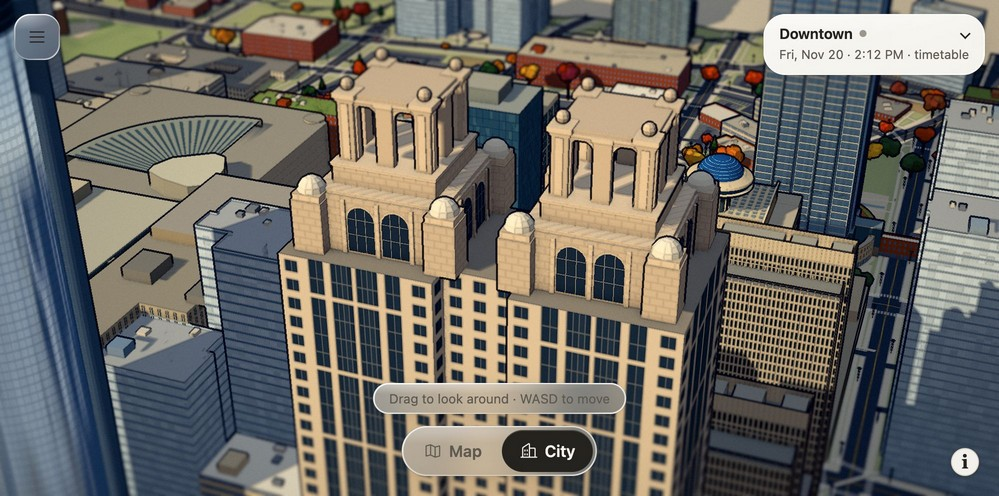
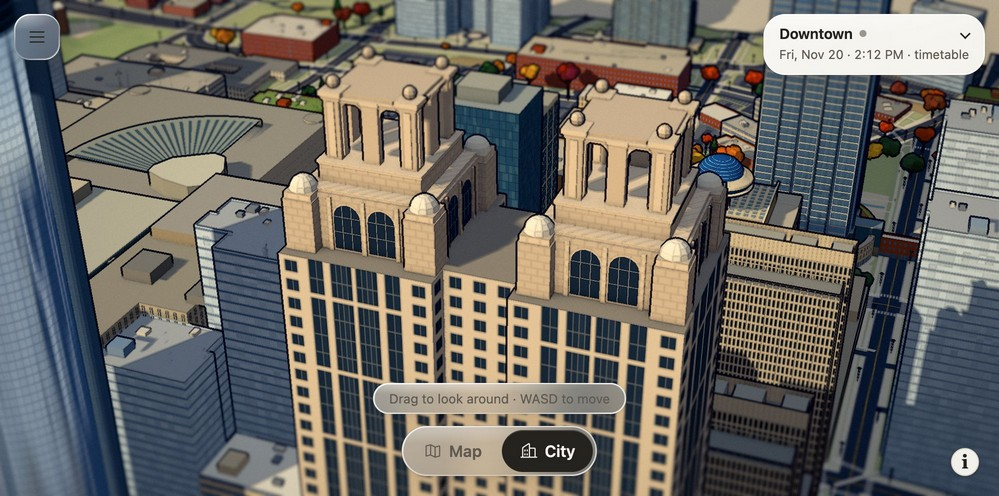
Seat both 191 Peachtree crowns inside the notched shaft roof

Changed region(s): [[0.2793, 0.0907, 0.7447, 0.6653], [0.9309, 0.5444, 0.993, 0.6653]]

diff --git a/web/src/city/peachtree-191.test.ts b/web/src/city/peachtree-191.test.ts
@@ -17,10 +17,10 @@ it('places two open lanterns on the mapped roof parts and leaves the western ent
   site.group.updateMatrixWorld(true);
   const roof = (x: number, z: number) =>
     new Raycaster(new Vector3(x,300,z),new Vector3(0,-1,0)).intersectObject(site.group,true)[0]?.point.y;
-  for (const [x,z] of [[429.5,-567.7],[469,-567.2]]) {
+  for (const [x,z] of [[426.8,-567.7],[471.5,-567.2]]) {
     expect(roof(x,z)).toBeCloseTo(ground+232,2);
     expect(roof(x+7.3,z+7.3)).toBeCloseTo(ground+234.7,2);
-    expect(roof(x+12.8,z+12.8)).toBeCloseTo(ground+217.28,2);
+    expect(roof(x+11.75,z+12.8)).toBeCloseTo(ground+217.28,2);
   }
   expect(roof(449,-567.5)).toBeCloseTo(ground+203);
   expect(roof(400,-567)).toBeCloseTo(ground+17);
@@ -28,6 +28,20 @@ it('places two open lanterns on the mapped roof parts and leaves the western ent
   const through = new Raycaster(new Vector3(414,ground+224,-563.8),new Vector3(1,0,0),0,29);
   expect(through.intersectObject(site.group,true)).toHaveLength(0);
   expect(site.group.children.filter(child => child instanceof Mesh)).toHaveLength(3);
+});
+
+it('supports both complete crown footprints at the 203 m shaft roof', () => {
+  const site = createPeachtree191([tower], () => 0)!;
+  const [shaft, , crowns] = site.group.children as Mesh[];
+  const vertices = crowns.geometry.getAttribute('position');
+  const down = new Raycaster(new Vector3(), new Vector3(0,-1,0), 0, 1);
+  // Every projected vertex must land on the shaft roof, including the four
+  // recess-facing corners. A missed roof would fall through to the podium.
+  expect(vertices.count).toBeGreaterThan(0);
+  for (let i = 0; i < vertices.count; i++) {
+    down.ray.origin.set(vertices.getX(i), 203.5, vertices.getZ(i));
+    expect(down.intersectObject(shaft).length).toBeGreaterThan(0);
+  }
 });
 
 it('retains generic geometry when the footprint or its terrain support is missing', () => {

diff --git a/web/src/city/peachtree-191.ts b/web/src/city/peachtree-191.ts
@@ -7,7 +7,13 @@ const footprintId = 'cca22dcb-b333-4b2a-9371-869465370bda';
 const shaft: P2[] = [[486.8,-548.9],[487.2,-585.1],[456.2,-585.5],[456.2,-580.5],
   [442.7,-580.6],[442.7,-585.7],[411.8,-586],[411.4,-549.8],[441.8,-549.4],
   [441.9,-554.5],[455.8,-554.3],[455.8,-549.3]];
-const crowns: P2[] = [[429.5,-567.7],[469,-567.2]];
+// Fit the complete crown on each load-bearing wing. The opposing notch
+// corners bound the wings more tightly than the mapped roof-part centres.
+const crowns: P2[] = [
+  [(shaft[6][0] + shaft[8][0]) / 2, -567.7],
+  [(shaft[2][0] + shaft[0][0]) / 2, -567.2],
+];
+const shoulderOffsetX = 11.75; // 6 m footings on wings ~30 m wide
 const stone = '#d4c5b5', cornice = '#e2d3c2', glazing = '#46515a';
 const podiumTop = 17, shaftTop = 203;
 
@@ -131,7 +137,7 @@ function crown(b: Builder, x: number, z: number, top: number) {
     b.box(nx ? 2.1 : 3.7,.85,nz ? 2.1 : 3.7,x+nx*8,230.8,z+nz*8,cornice);
   }
   for (const dx of [-1,1]) for (const dz of [-1,1]) {
-    const sx = x+dx*12.8, sz = z+dz*12.8;
+    const sx = x+dx*shoulderOffsetX, sz = z+dz*12.8;
     b.box(6,10.3,6,sx,208.15,sz,stone);
     b.box(5.5,1.3,5.5,sx,213.95,sz,cornice);
     const dome = new THREE.SphereGeometry(2.68,12,4,0,2*Math.PI,0,Math.PI/2);

diff --git a/docs/build-log.md b/docs/build-log.md
@@ -2006,3 +2006,5 @@ City had drawn King Memorial station as one solid block. It extruded the OSM sta
 ### 2026-11-23 · The eight little domes on 191 Peachtree
 
 From the skyline I had read each crown as a single shallow dome. In the close photograph the highest points are actually stone balls. Four smaller pale hemispheres sit a stage lower on each crown, framing two arched windows on each face. We rebuilt those shoulders and kept the mapped 234.7 m tip height. The same photograph explained why the office floors looked too busy. Four vertically grouped bays carry several floors of glass between slender piers, while the central recess has plain stacks of square windows. A pair of 216 × 552 textures handles the entire shaft, keeping the landmark at three meshes. [Daylight, full night, skyline and saved cameras](log/ui/peachtree-191/README.md)
+
+The mapped roof-part centres put four inner footing corners past the notches in the office shaft. We moved the west crown 2.7 m west and the east crown 2.5 m east, and brought the corner pavilions 1.05 m closer to their own centreline. The 6 m footings now span 29.5 m across each wing. A raycast checks every crown vertex against the roof below. [Sam’s daylight angle](log/ui/peachtree-191/polish-day.jpg) · [Opposite notch](log/ui/peachtree-191/footings-reverse.jpg)

diff --git a/docs/log/ui/peachtree-191/README.md b/docs/log/ui/peachtree-191/README.md
@@ -14,6 +14,8 @@ Sam’s private detail provided the proportions. Sullivan’s street photograph 
 
 City used the Studio bake, high quality and a stopped clock on November 20, 2026, at 14:12:45 or 22:00 EST. The tower still uses three meshes. The crowns contribute 3,592 triangles. Both mipmapped facade textures together occupy 0.91 MiB before mipmaps (216 × 552 RGBA each). The masonry joints fade at distance. A web build and coordinator deployment pick up the geometry with the existing data.
 
+Sam spotted the inner footings crossing the recessed facade in the daylight view. The two crowns now sit over the centres of the load-bearing wings at x = 426.8 and 471.5 m. The 6 m footings span 29.5 m east to west. Eight daylight views at 45° intervals checked the front and back notches. The regression test projects every crown vertex onto the modelled shaft roof. [Opposite side at 160°](footings-reverse.jpg)
+
 ## Earlier City replacement
 
 
